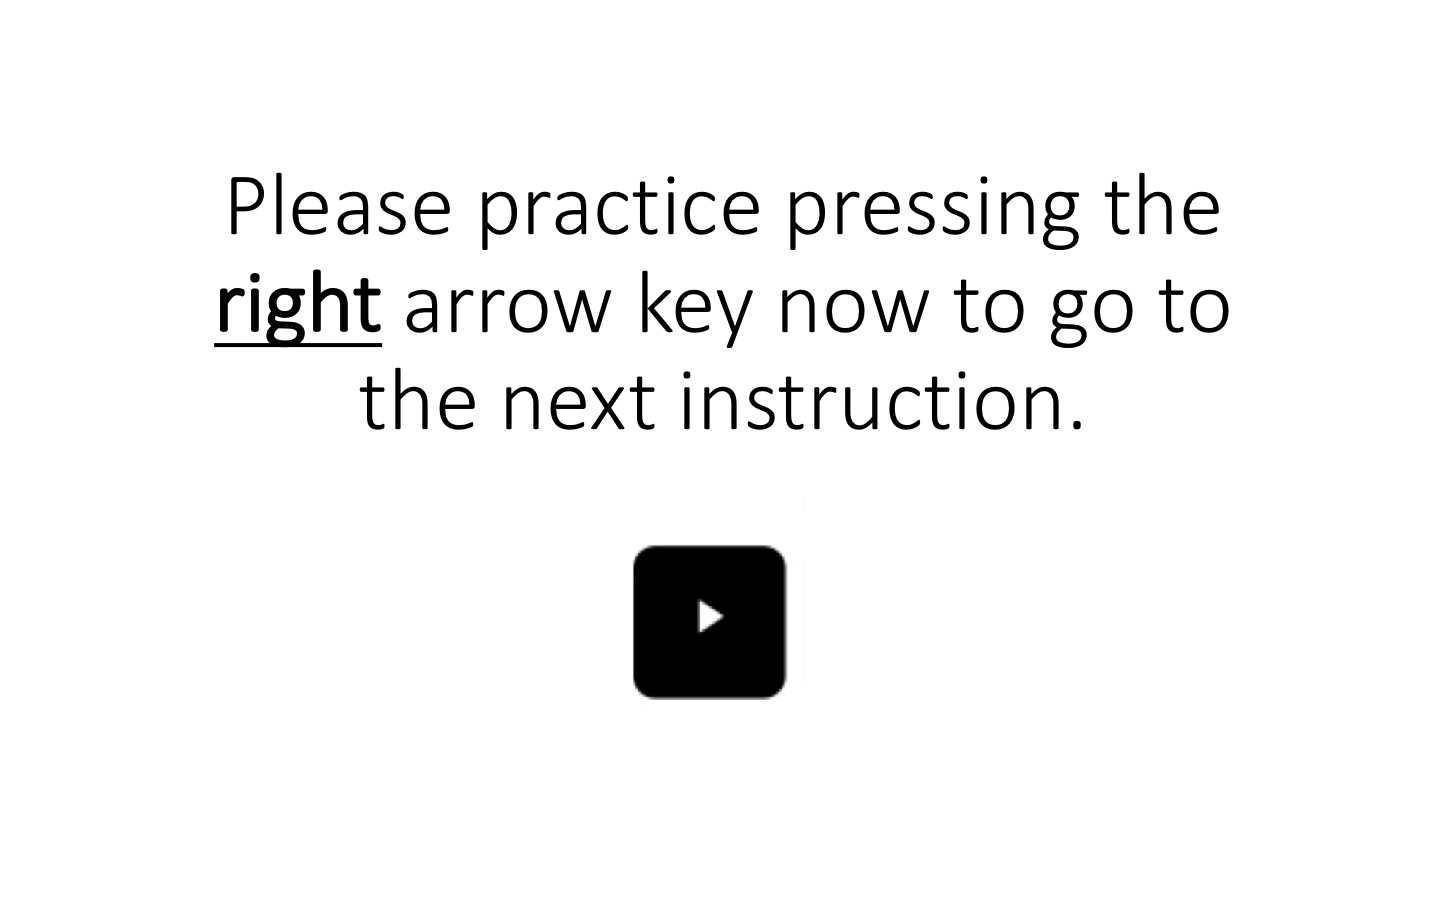
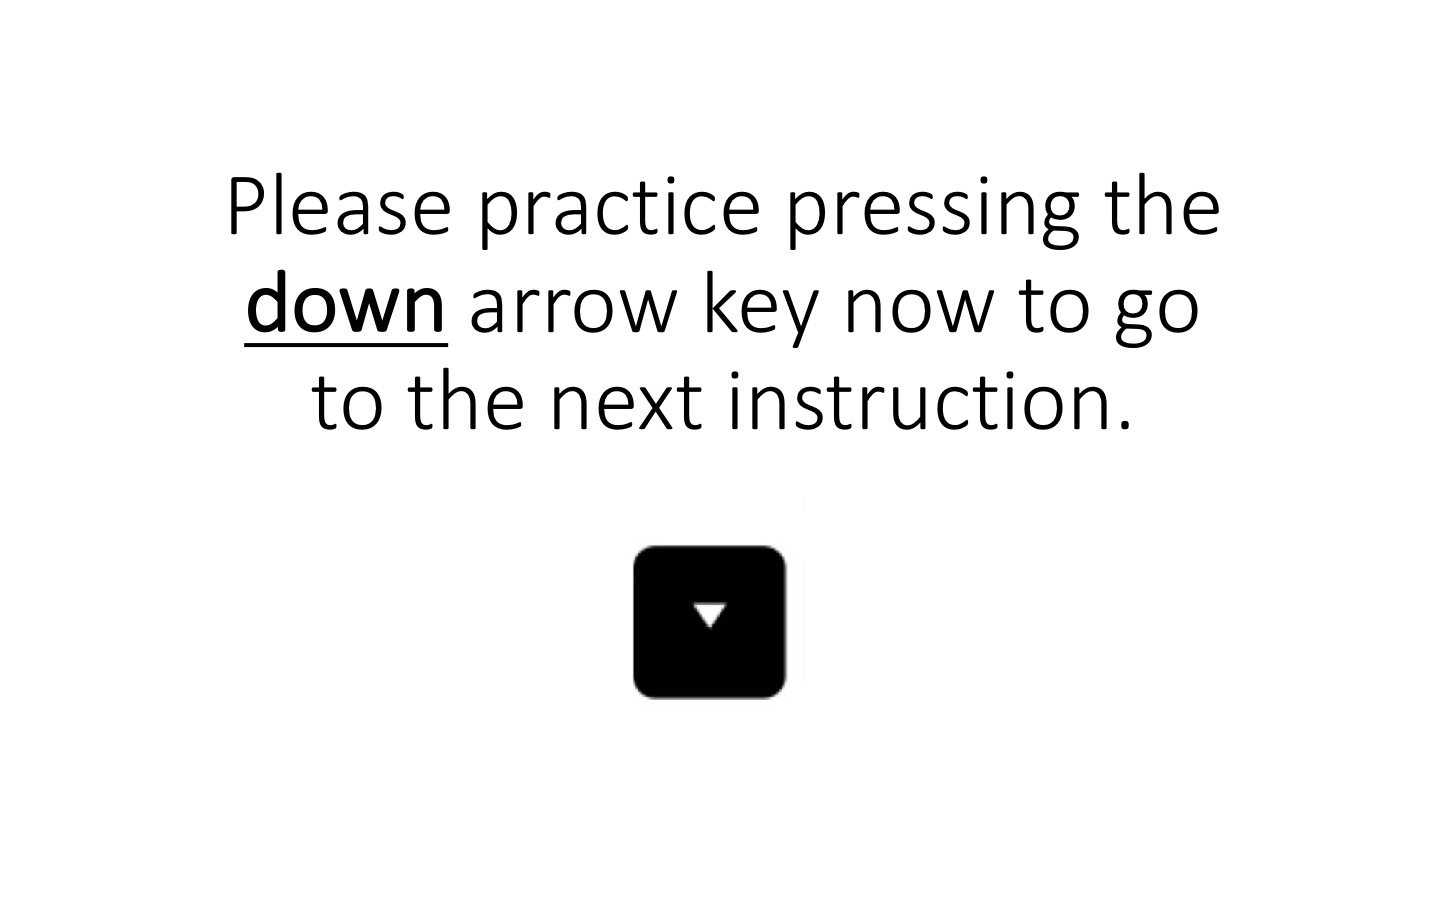
Removed counter-related slide from balloon and egg game instructions

Changed region(s): [[0.1562, 0.3111, 0.875, 0.4978], [0.4688, 0.6533, 0.5, 0.7156]]

diff --git a/MagicGames.py b/MagicGames.py
@@ -442,10 +442,10 @@ class Routine():
 ## Declare all the functions that control the behavior of each routine in the experiment
 # for each numbered instruction slide, storing which key press is required to advance
 keys_to_advance = {} 
-for slide_num in range (1, 11):
+for slide_num in range (1, 10):
     keys_to_advance[slide_num] = 'space'
-keys_to_advance[11], keys_to_advance[12], keys_to_advance[13], keys_to_advance[14] = left_key, right_key, down_key, up_key
-for slide_num in range(15, 20):
+keys_to_advance[10], keys_to_advance[11], keys_to_advance[12], keys_to_advance[13] = left_key, right_key, down_key, up_key
+for slide_num in range(14, 19):
     keys_to_advance[slide_num] = 'space'
 
 def run_slides(routine, current_slide, last_slide):
@@ -720,9 +720,9 @@ def trial_shutdown(routine):
         target = visual.ImageStim(win = win, name = 'egg', units = 'pix', image = whole_egg_image, interpolate = True, depth = -3.0)
 # build a list of routines to run
 routines = []
-instructions_1 = Routine(window = win, run_frame = lambda routine: run_slides(routine, 1, 15))
+instructions_1 = Routine(window = win, run_frame = lambda routine: run_slides(routine, 1, 14))
 wand_practice = Routine(window = win, startup = wand_practice_startup, run_frame = wand_practice_run_frame)
-instructions_2 = Routine(window = win, run_frame = lambda routine: run_slides(routine, 16, 18))
+instructions_2 = Routine(window = win, run_frame = lambda routine: run_slides(routine, 15, 17))
 
 if not skip_instructions: routines.extend((instructions_1, wand_practice, instructions_2))
 
@@ -736,7 +736,7 @@ for trial_num in range(1, num_trials + 1):
     trial = Routine(window = win, startup = trial_startup, run_frame = trial_run_frame, shutdown = trial_shutdown)
     routines.append(trial)
 
-thanks = Routine(window = win, run_frame = lambda routine: run_slides(routine, 19, 19))
+thanks = Routine(window = win, run_frame = lambda routine: run_slides(routine, 18, 18))
 routines.append(thanks)
 
 
